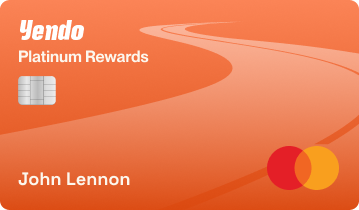
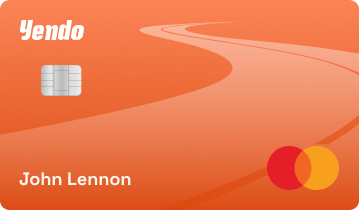
Swap VH hero back to PNG — Platinum Rewards card image
SVG rendering was unreliable; replaced with PNG asset (John Lennon card).

Changed region(s): [[0.0306, 0.2286, 0.429, 0.5143], [0.0306, 0.8, 0.3677, 0.8857]]

diff --git a/lib/features/offers/screens/verification_hub_screen.dart b/lib/features/offers/screens/verification_hub_screen.dart
@@ -239,13 +239,10 @@ class _OfferHeroCard extends StatelessWidget {
   Widget build(BuildContext context) {
     return ClipRRect(
       borderRadius: BorderRadius.circular(16),
-      child: AspectRatio(
-        aspectRatio: 1536 / 969,
-        child: SvgPicture.asset(
-          'assets/images/Yendo Vehicle Equity Mastercard.svg',
-          fit: BoxFit.cover,
-          width: double.infinity,
-        ),
+      child: Image.asset(
+        'assets/images/Platinum Rewards.png',
+        fit: BoxFit.cover,
+        width: double.infinity,
       ),
     );
   }
